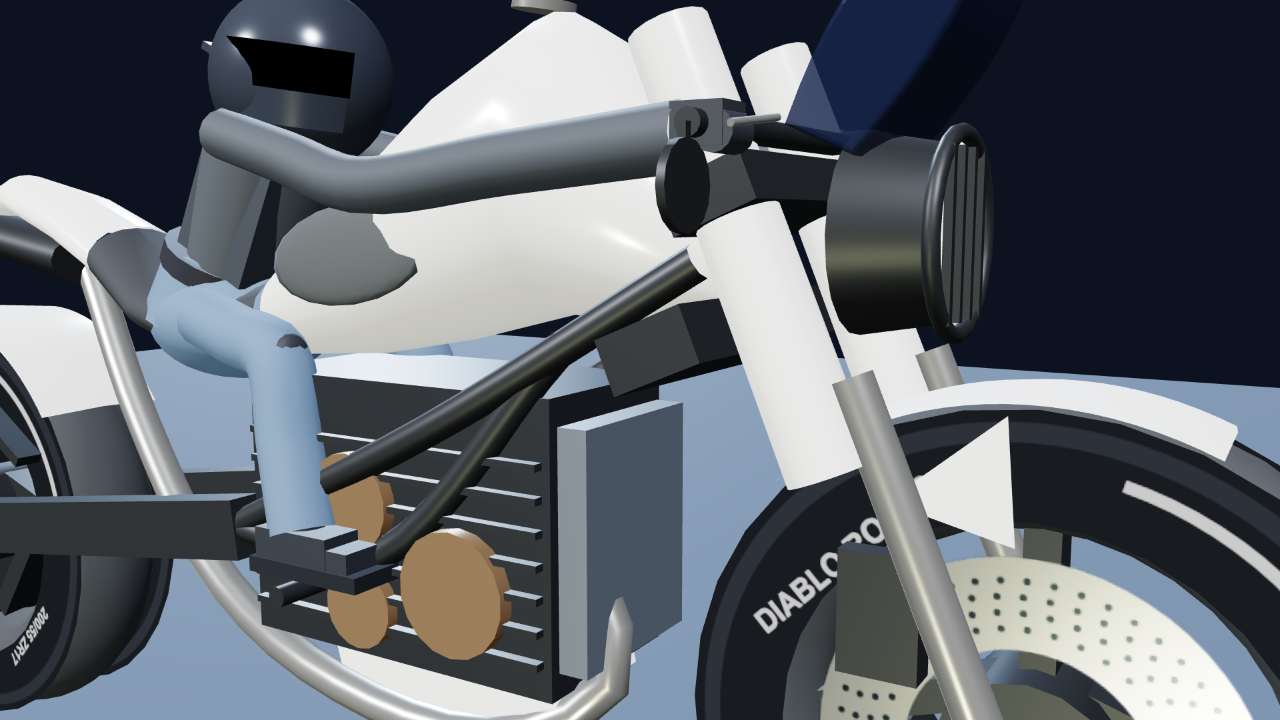
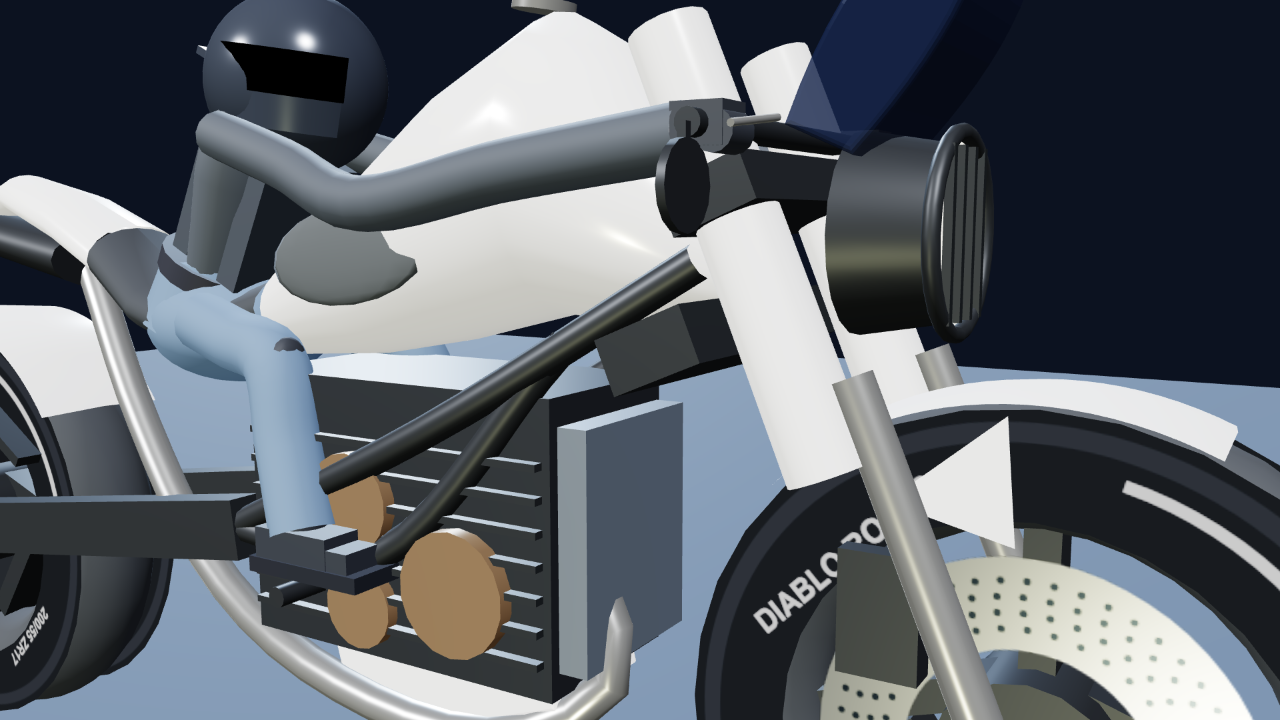
update

diff --git a/scratch/mandate_bike_b_isometric.html b/scratch/mandate_bike_b_isometric.html
@@ -184,10 +184,8 @@
         const cosR = Math.cos(rad);
         const sinR = Math.sin(rad);
 
-        // Center crown point (higher)
         const xC = cx + cosR * r;
         const yC = cy + sinR * r;
-        // Edge points (dropped by crownDrop for curved cross section)
         const xE = cx + cosR * (r - crownDrop);
         const yE = cy + sinR * (r - crownDrop);
 
@@ -214,6 +212,52 @@
       geo.computeVertexNormals();
       const mesh = new THREE.Mesh(geo, mat);
       mesh.castShadow = true;
+      return mesh;
+    }
+
+    // Anatomical V-Tapered Torso Lofting Function (Lofts smoothly along Y axis from waist to shoulders)
+    function createAnatomicalTorso(stations, radSegs, mat) {
+      radSegs = radSegs || 24;
+      const numStations = stations.length;
+      const pos = [];
+      const uvs = [];
+      const indices = [];
+
+      for (let s = 0; s < numStations; s++) {
+        const st = stations[s];
+        const v = s / (numStations - 1);
+        for (let j = 0; j <= radSegs; j++) {
+          const theta = (j / radSegs) * Math.PI * 2;
+          const cos = Math.cos(theta); // Depth X
+          const sin = Math.sin(theta); // Width Z
+          const x = cos * st.rx;
+          const y = st.y;
+          const z = sin * st.rz;
+
+          pos.push(x, y, z);
+          uvs.push(j / radSegs, v);
+        }
+      }
+
+      for (let s = 0; s < numStations - 1; s++) {
+        for (let j = 0; j < radSegs; j++) {
+          const a = s * (radSegs + 1) + j;
+          const b = (s + 1) * (radSegs + 1) + j;
+          const c = (s + 1) * (radSegs + 1) + j + 1;
+          const d = s * (radSegs + 1) + j + 1;
+          indices.push(a, b, d);
+          indices.push(b, c, d);
+        }
+      }
+
+      const geo = new THREE.BufferGeometry();
+      geo.setAttribute('position', new THREE.Float32BufferAttribute(pos, 3));
+      geo.setAttribute('uv', new THREE.Float32BufferAttribute(uvs, 2));
+      geo.setIndex(indices);
+      geo.computeVertexNormals();
+      const mesh = new THREE.Mesh(geo, mat);
+      mesh.castShadow = true;
+      mesh.receiveShadow = true;
       return mesh;
     }
 
@@ -266,7 +310,7 @@
       const biker = new THREE.Group();
 
       const jacketColor = 0x1c2026; // Textured dark biker jacket (#1c2026)
-      const vestColor = 0x13161b;   // Dark tactical vest panel
+      const vestColor = 0x13161b;   // Tactical vest panel
       const pantsColor = isCruiser ? 0x1e242b : 0x283c5a; // Tactical cargo / Dark denim
       const bootColor = 0x111317;   // Laced black combat/riding boots
       const gloveColor = 0x14161a;
@@ -286,43 +330,47 @@
       const leanAngle = isCruiser ? -0.22 : -0.46; // Radians
 
       // 1. CONNECTED PELVIS & GLUTES SEATED SQUARELY ON SADDLE (ZERO GAP BEHIND RIDER)
-      // Glutes sit directly inside saddle pocket, filling seat width completely
       const pelvisGroup = new THREE.Group();
-      const glutesY = saddlePos[1] + 0.15;
-      pelvisGroup.position.set(saddlePos[0], glutesY, saddlePos[2]);
+      // Position glutes center so bottom of glutes embeds firmly into the saddle bucket
+      const glutesY = isCruiser ? saddlePos[1] - 0.15 : saddlePos[1] + 0.10;
+      pelvisGroup.position.set(saddlePos[0] - 0.05, glutesY, saddlePos[2]);
 
-      // Broad anatomical glutes & pelvis hip block (widthZ = 2.15, filling saddle completely)
+      // Broad anatomical glutes & pelvis hip block (widthZ = 2.10, filling saddle completely)
       const glutesMesh = new THREE.Mesh(new THREE.SphereGeometry(1.05, 24, 18), pantsMat);
       glutesMesh.scale.set(1.30, 0.75, 1.05); // Radius Z = 1.05 -> Width = 2.10
       pelvisGroup.add(glutesMesh);
 
       // Lumbar rise & waist bridge filling seat backrest seam
       const lumbarMesh = new THREE.Mesh(new THREE.CylinderGeometry(0.85, 1.05, 0.95, 20), pantsMat);
-      lumbarMesh.position.set(-0.25, 0.40, 0);
+      lumbarMesh.position.set(-0.25, 0.38, 0);
       lumbarMesh.rotation.z = isCruiser ? -0.12 : -0.28;
       pelvisGroup.add(lumbarMesh);
 
       // Wide dark tactical belt at jacket seam
       const belt = new THREE.Mesh(new THREE.CylinderGeometry(0.92, 0.92, 0.28, 20), new THREE.MeshStandardMaterial({ color: 0x0d0e12, roughness: 0.6 }));
-      belt.position.set(-0.15, 0.72, 0);
+      belt.position.set(-0.15, 0.70, 0);
       belt.rotation.z = leanAngle;
       pelvisGroup.add(belt);
 
       biker.add(pelvisGroup);
 
       // 2. BROAD ANATOMICAL UPPER BACK, CHEST & INTEGRATED SHOULDERS (NO BOWLING PIN!)
-      // Built out of 3 overlapping anatomical sections:
+      // Continuous V-tapered lofted jacket torso (waist width 1.56 expanding to shoulder width 2.20)
       const torsoGroup = new THREE.Group();
-      torsoGroup.position.set(saddlePos[0] + 0.05, glutesY + 0.60, saddlePos[2]);
+      torsoGroup.position.set(saddlePos[0] - 0.05, glutesY + 0.60, saddlePos[2]);
       torsoGroup.rotation.z = leanAngle;
 
-      // Section 1: Contoured Mid-Torso / Ribcage (tapering naturally from widthZ = 2.0 under arms down to 1.55 at waist)
-      const ribcage = new THREE.Mesh(new THREE.CylinderGeometry(0.98, 0.78, 1.9, 24), jacketMat);
-      ribcage.scale.set(0.92, 1.0, 1.0); // Depth X = 0.90, Width Z tapers from 1.96 down to 1.56
-      ribcage.position.set(0, 0.95, 0);
-      torsoGroup.add(ribcage);
+      const jacketStations = [
+        { y: 0.0, rx: 0.50, rz: 0.78 }, // Waist: depth 1.00, width 1.56
+        { y: 0.7, rx: 0.55, rz: 0.90 }, // Mid-torso: depth 1.10, width 1.80
+        { y: 1.4, rx: 0.60, rz: 1.04 }, // Upper chest: depth 1.20, width 2.08
+        { y: 2.0, rx: 0.58, rz: 1.10 }, // Broad shoulder yoke: depth 1.16, width 2.20
+        { y: 2.3, rx: 0.50, rz: 0.95 }, // Clavicle slope: depth 1.00, width 1.90
+        { y: 2.5, rx: 0.44, rz: 0.65 }  // Neck base: depth 0.88, width 1.30
+      ];
+      torsoGroup.add(createAnatomicalTorso(jacketStations, 24, jacketMat));
 
-      // Front tactical vest panel & rear spine protector
+      // Tactical front chest / spine vest detail
       const vestPanel = new THREE.Mesh(new THREE.BoxGeometry(0.35, 1.7, 1.45), vestMat);
       vestPanel.position.set(0.55, 1.05, 0);
       torsoGroup.add(vestPanel);
@@ -331,29 +379,22 @@
       spinePanel.position.set(-0.52, 1.0, 0);
       torsoGroup.add(spinePanel);
 
-      // Section 2: Broad Upper Chest & Scapula/Shoulder Yoke
-      // Wide muscular horizontal ellipsoid across upper back and chest: widthZ = 2.2, heightY = 1.1, depthX = 1.15
-      const shoulderYoke = new THREE.Mesh(new THREE.SphereGeometry(1.0, 32, 24), jacketMat);
-      shoulderYoke.scale.set(1.15 / 2, 1.10 / 2, 2.20 / 2); // Radius: X = 0.575, Y = 0.55, Z = 1.10 (widthZ = 2.20)
-      shoulderYoke.position.set(0, 1.95, 0);
-      torsoGroup.add(shoulderYoke);
-
-      // Section 3: Thick Folded Hoodie Collar & Neck Seal (ZERO gap under helmet)
+      // Thick Folded Hoodie Collar & Neck Seal (ZERO gap under helmet)
       const hoodieCollar = new THREE.Mesh(new THREE.TorusGeometry(0.65, 0.26, 16, 28), collarMat);
       hoodieCollar.rotation.x = Math.PI / 2;
-      hoodieCollar.position.set(0, 2.35, 0);
+      hoodieCollar.position.set(0, 2.38, 0);
       torsoGroup.add(hoodieCollar);
 
-      const neckSeal = new THREE.Mesh(new THREE.CylinderGeometry(0.48, 0.54, 0.60, 20), collarMat);
+      const neckSeal = new THREE.Mesh(new THREE.CylinderGeometry(0.46, 0.52, 0.55, 20), collarMat);
       neckSeal.position.set(0, 2.55, 0);
       torsoGroup.add(neckSeal);
 
       biker.add(torsoGroup);
 
       // 3. SEAMLESS TAPERED ARMS EMBEDDED INSIDE SHOULDER YOKE (NO FLOATING CYLINDERS, NO BALL JOINTS)
-      // Shoulder origins: local (0, 1.95, ±0.95) strictly INSIDE the wide shoulder yoke (radiusZ = 1.10)
-      const shLocalL = new THREE.Vector3(0.0, 1.95, -0.95);
-      const shLocalR = new THREE.Vector3(0.0, 1.95, 0.95);
+      // Shoulder origins: local (0, 2.0, ±0.95) strictly INSIDE the wide shoulder yoke (radiusZ = 1.10)
+      const shLocalL = new THREE.Vector3(0.0, 2.0, -0.95);
+      const shLocalR = new THREE.Vector3(0.0, 2.0, 0.95);
       shLocalL.applyEuler(new THREE.Euler(0, 0, leanAngle)).add(torsoGroup.position);
       shLocalR.applyEuler(new THREE.Euler(0, 0, leanAngle)).add(torsoGroup.position);
 
@@ -365,26 +406,34 @@
         const gy = gripPos[1];
         const gz = gripPos[2];
 
-        // Natural elbow point with realistic bend, dropped slightly toward tank
-        const elbowX = sx + (gx - sx) * 0.42 - 0.25;
-        const elbowY = sy + (gy - sy) * 0.45 - 0.55;
-        const elbowZ = sz + (gz - sz) * 0.38 + side * 0.15;
+        // Natural relaxed motorcycle elbow bend (dropped down and flared out naturally)
+        const elbowX = sx + (gx - sx) * 0.44 - 0.20;
+        const elbowY = sy - 0.85;
+        const elbowZ = sz + (gz - sz) * 0.45 + side * 0.25;
+
+        const bicepX = sx + (elbowX - sx) * 0.50;
+        const bicepY = sy - 0.42;
+        const bicepZ = sz + (elbowZ - sz) * 0.40;
 
         const wristX = gx - 0.18;
         const wristY = gy - 0.08;
         const wristZ = gz;
 
+        const foreX = elbowX + (wristX - elbowX) * 0.50;
+        const foreY = elbowY + (wristY - elbowY) * 0.55;
+        const foreZ = elbowZ + (wristZ - elbowZ) * 0.50;
+
         // Continuous smooth curved spline arm (shoulder -> bicep -> elbow bend -> forearm -> wrist)
         const armCurve = new THREE.CatmullRomCurve3([
           new THREE.Vector3(sx, sy, sz),
-          new THREE.Vector3(sx + (elbowX - sx) * 0.5, sy + (elbowY - sy) * 0.5, sz + (elbowZ - sz) * 0.5),
+          new THREE.Vector3(bicepX, bicepY, bicepZ),
           new THREE.Vector3(elbowX, elbowY, elbowZ),
-          new THREE.Vector3(elbowX + (wristX - elbowX) * 0.5, elbowY + (wristY - elbowY) * 0.5, elbowZ + (wristZ - elbowZ) * 0.5),
+          new THREE.Vector3(foreX, foreY, foreZ),
           new THREE.Vector3(wristX, wristY, wristZ)
         ]);
 
-        // Seamless tapered arm mesh (radius: 0.36 shoulder to 0.26 forearm to 0.20 wrist)
-        const armTube = new THREE.Mesh(new THREE.TubeGeometry(armCurve, 20, 0.30, 14, false), jacketMat);
+        // Seamless tapered arm mesh (radius: 0.35 shoulder to 0.28 elbow to 0.21 wrist)
+        const armTube = new THREE.Mesh(new THREE.TubeGeometry(armCurve, 20, 0.29, 14, false), jacketMat);
         biker.add(armTube);
 
         // Dark Motorcycle Riding Glove gripping handlebar
@@ -409,7 +458,7 @@
 
       // 4. CONNECTED TROUSERS, KNEES, CALVES & LACED COMBAT BOOTS
       [[-1, pegLeft], [1, pegRight]].forEach(([side, pegPos]) => {
-        const hipX = saddlePos[0] + 0.30;
+        const hipX = saddlePos[0] + 0.25;
         const hipY = glutesY + 0.10;
         const hipZ = side * 0.85;
 
@@ -1085,11 +1134,6 @@
         cArm.position.set(-4.8, 3.4, sz);
         cArm.rotation.z = 0.08;
         bike.add(cArm);
-
-        const strut = new THREE.Mesh(new THREE.BoxGeometry(4.2, 0.35, 0.22), chromeMat);
-        strut.position.set(-6.8, 5.6, sz);
-        strut.rotation.z = 0.18;
-        bike.add(strut);
       });
 
       // Forward Footpegs
